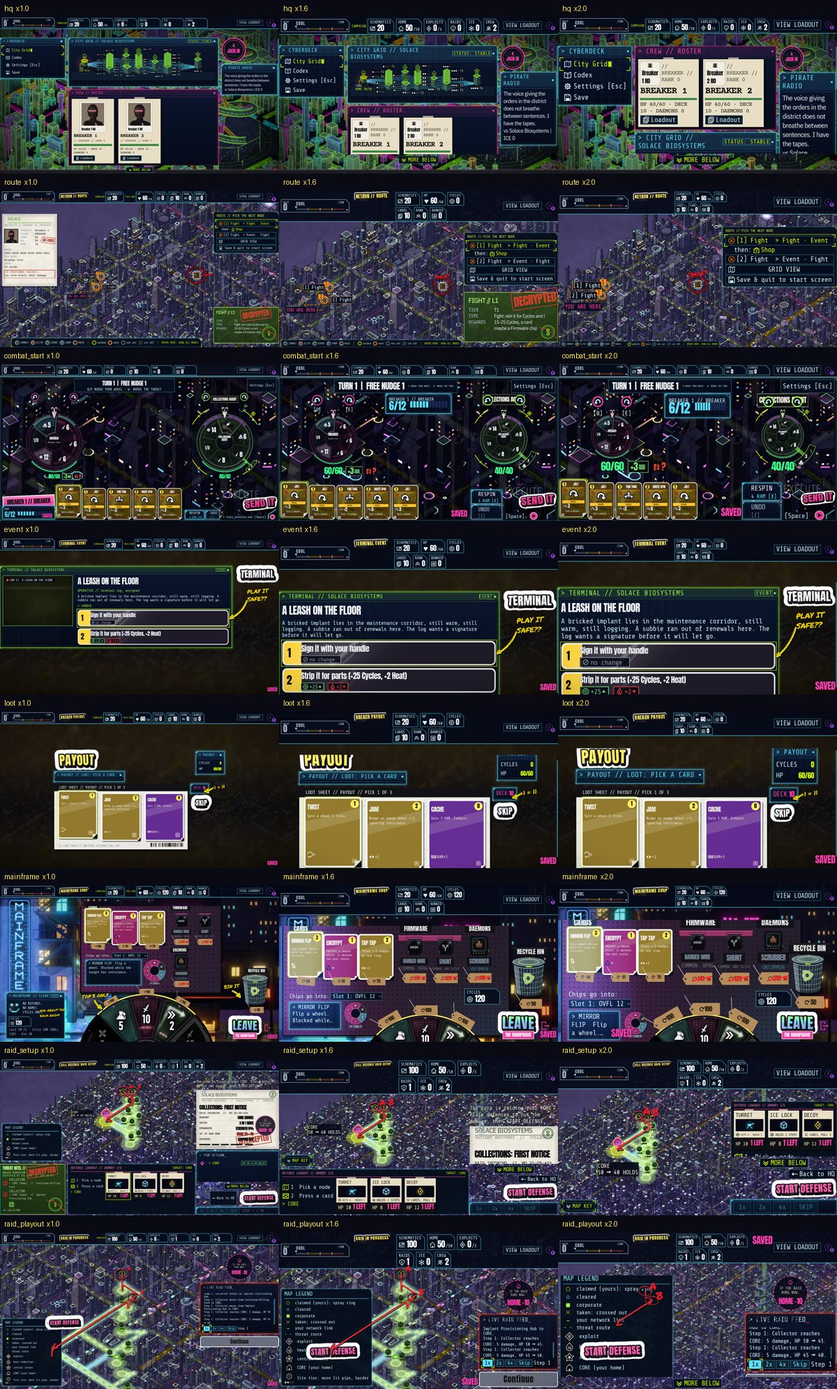
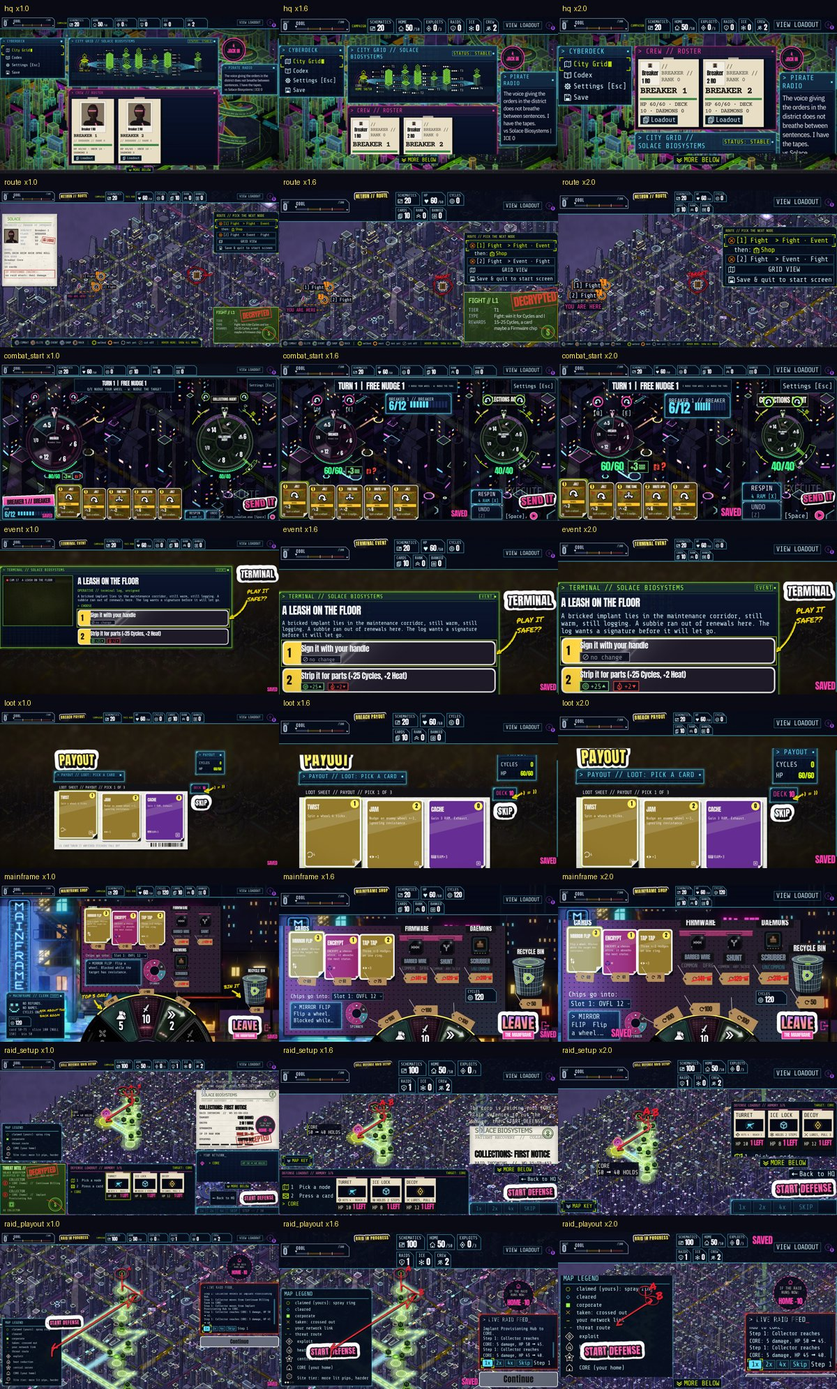
HEAT-ALL: fit at big text (title cap, event gap, wallet cap, tag floor), sheet, decisions

diff --git a/docs/DECISIONS.md b/docs/DECISIONS.md
@@ -159,6 +159,14 @@ footer is shorter (the file's height keeps the AT LARGE stamp's room), which als
   netrun page is built in its own function and a body title would collide with the route map, the fight's arena and
   the wheels, which other agents own; the bar is the one place that names every screen the same way. Proposal if the
   designer wants them on the pages: a `PageTitle` strip per page, a slice of its own.
+- **Big text.** The gauge (312 px at x2.0) and the title leave the stat tags two rows at the largest text (they
+  were one row on the run pages), so the bar is about 30 px taller there. Calls: the title sticker letters smaller
+  rather than wider than `HudBar.TITLE_MAX_WIDTH` (150 px; the raid setup's long title at x2.0 left the tags below
+  `HudStats.fit_floor`); the event window's top gap is 0 above text scale 1.6 (`EVENT_GAP_MAX_SCALE`; its second
+  choice was 8 px off the screen); the Mainframe wallet's width cap is 1.4 (`SHOP_WALLET_MAX_SCALE`, was 1.6; it
+  touched a stock tag by 6 px under the taller bar); `HudStats` never draws tags below `COMPACT_SCALE_FLOOR` (0.5)
+  in its two-row layout (a bar with almost no room left drew them at a zero font size). Test
+  `test_anim_r2_combat` (event top bar) now allows two rows and still asserts every choice on screen.
 - **Motion / accessibility.** The gauge is the HQ-B component, so its motion is unchanged: it joins `MotionSkip`
   (one press completes the roll and the banner), reduce effects shows its end state, headless never waits.
 - Tests: new `tests/unit/test_heat_all.gd` (fast): the gauge first with the campaign's Heat on route / Mainframe /
